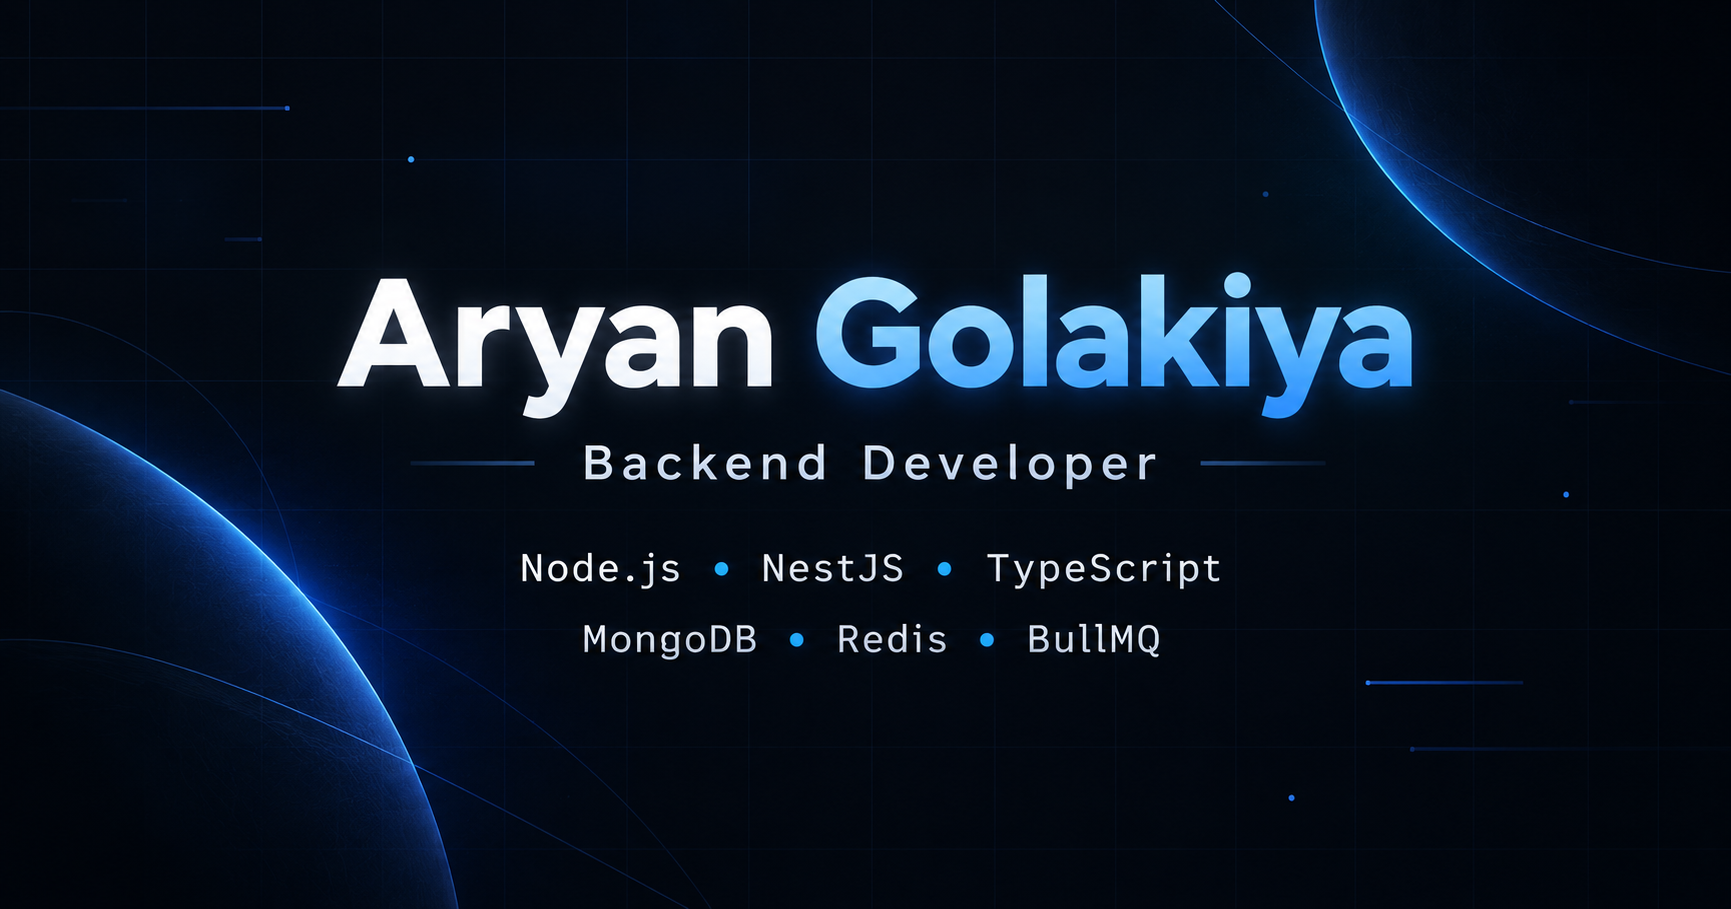
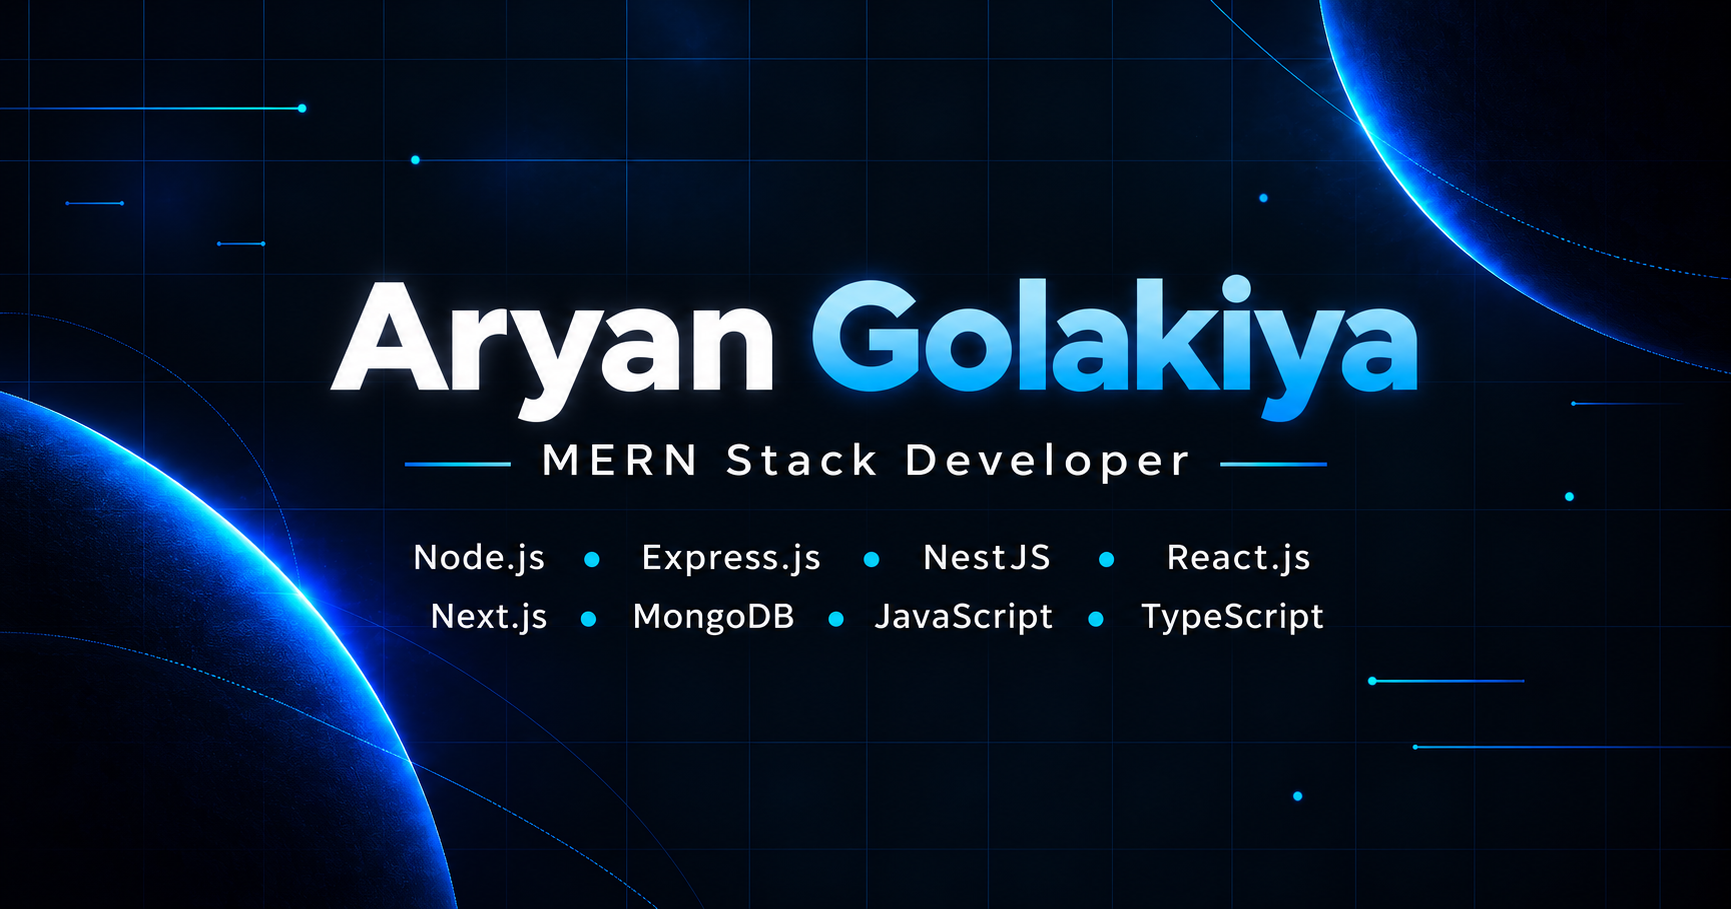
Few changes

diff --git a/src/data/about.ts b/src/data/about.ts
@@ -1,9 +1,15 @@
 export const aboutData = {
-  intro: "I am a Backend Developer with 3+ years of experience building scalable APIs, backend systems, SaaS platforms, mobile application backends, and third-party integrations.",
+  intro: `I am a Backend Developer with 3+ years of experience building, integrating, and maintaining scalable web and
+          application backend systems using Node.js, Express.js, NestJS, TypeScript, JavaScript, MongoDB and
+          MySQL.
+          Experienced in RESTful API development, authentication and authorisation, third-party API integration,
+          database management, debugging, production issue resolution and frontend-backend integration. Hands-on
+          experience contributing to multi-tenant SaaS platforms and web applications
+        `,
 
-  description: "My main focus is backend engineering using Node.js, NestJS, Express.js, TypeScript, MongoDB, MySQL, Redis, and BullMQ. I also work with React.js and Next.js when frontend integration is required.",
+  description: "My main focus is backend engineering using Node.js, NestJS, Express.js, JavaScript, TypeScript, MongoDB, MySQL, Redis, and BullMQ. I also work with React.js and Next.js when frontend integration is required.",
 
-  approach: "I focus on clean architecture, maintainable code, reliable APIs, database design, performance, debugging, and production-ready backend development.",
+  approach: "I focus on clean architecture, maintainable code, reliable APIs, database design, performance, debugging and production-ready backend development.",
 
   education: {
     degree: "Bachelor of Computer Applications (BCA)",

diff --git a/src/components/sections/hero.tsx b/src/components/sections/hero.tsx
@@ -7,7 +7,9 @@ import { siteConfig } from "@/config/site";
 
 const technologies = [
   "Node.js",
+  "Express.js",
   "NestJS",
+  "JavaScript",
   "TypeScript",
   "MongoDB",
   "MySQL",
@@ -61,11 +63,11 @@ const Hero = () => {
 
             <FadeIn delay={0.2}>
               <p className="mt-7 max-w-2xl text-base leading-8 ext-(--muted-foreground) sm:text-lg">
-                I&apos;m Aryan Golakiya, a Backend Developer with 4+ years of
+                I&apos;m Aryan Golakiya, a Backend Developer with 3+ years of
                 experience building APIs, SaaS platforms, mobile application
-                backends, third-party integrations, and reliable server-side
-                systems using Node.js, NestJS, TypeScript, MongoDB, MySQL,
-                Redis, and BullMQ.
+                backends, third-party integrations and reliable server-side
+                systems using Node.js, Express.js, NestJS, JavaScript, TypeScript, MongoDB, MySQL,
+                Redis and BullMQ.
               </p>
             </FadeIn>
 

diff --git a/src/config/site.ts b/src/config/site.ts
@@ -1,10 +1,10 @@
 
 export const siteConfig = {
   name: "Aryan Golakiya",
-  title: "Backend Developer",
-  description: "Backend Developer specializing in Node.js, NestJS, TypeScript, MongoDB, Redis, and scalable API development.",
+  title: "MERN Stack Developer",
+  description: "MERN Stack Developer with a backend focus, specializing in Node.js, Express.js, NestJS, React.js, Next.js, MongoDB, JavaScript, TypeScript, REST APIs and scalable web applications.",
 
-   url: process.env.NEXT_PUBLIC_SITE_URL || "http://localhost:3000",
+  url: process.env.NEXT_PUBLIC_SITE_URL || "http://localhost:3000",
 
   email: "aryangolakiya121@gmail.com",
 
